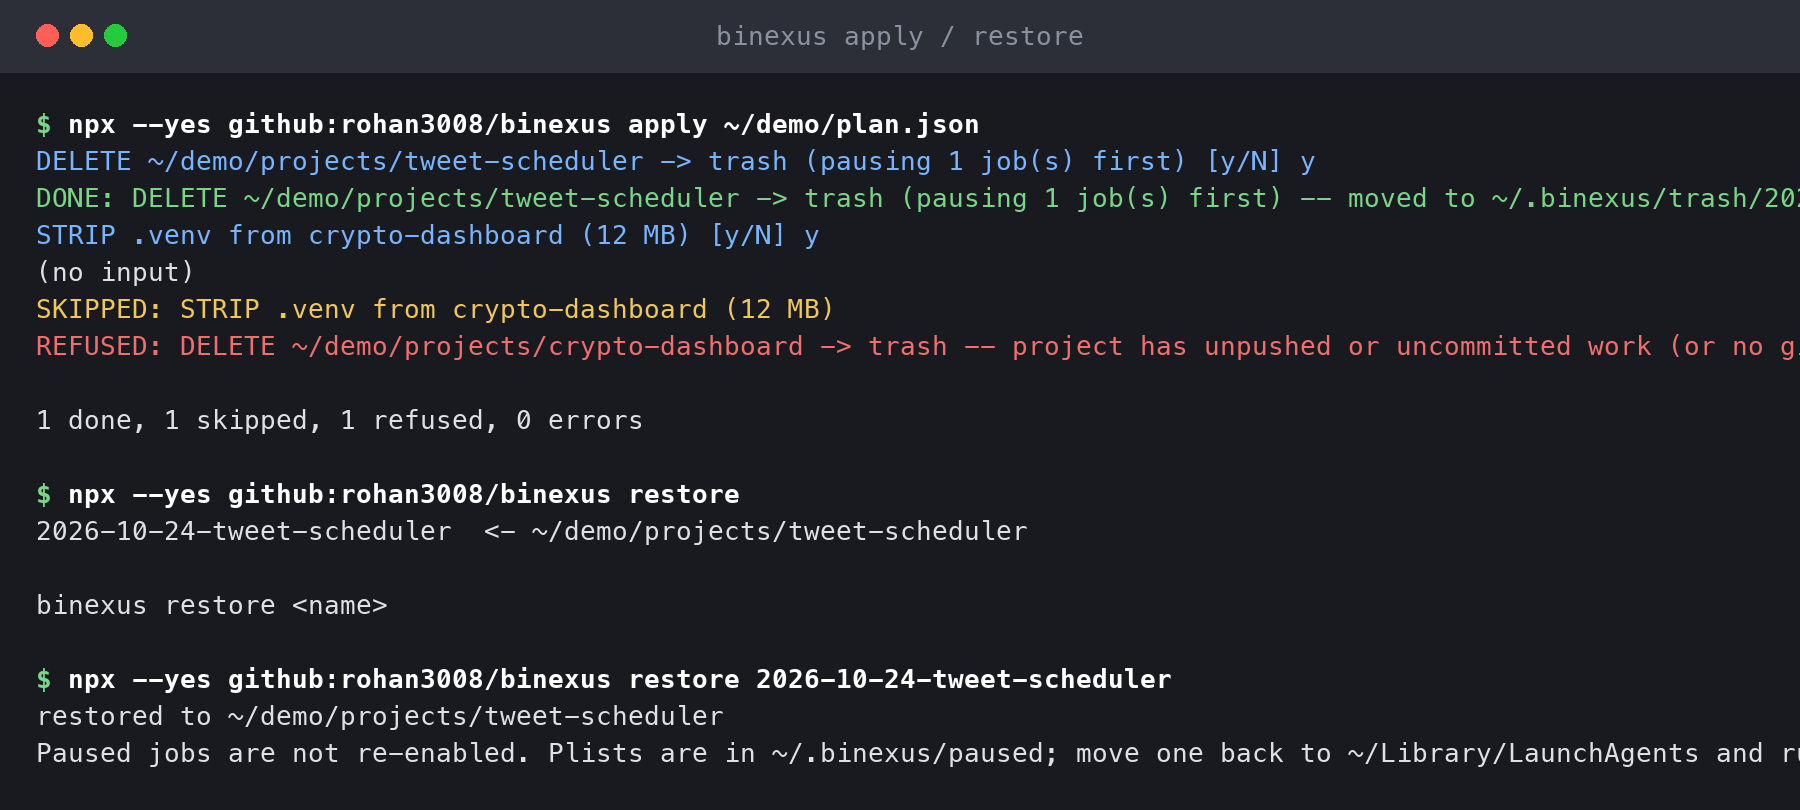
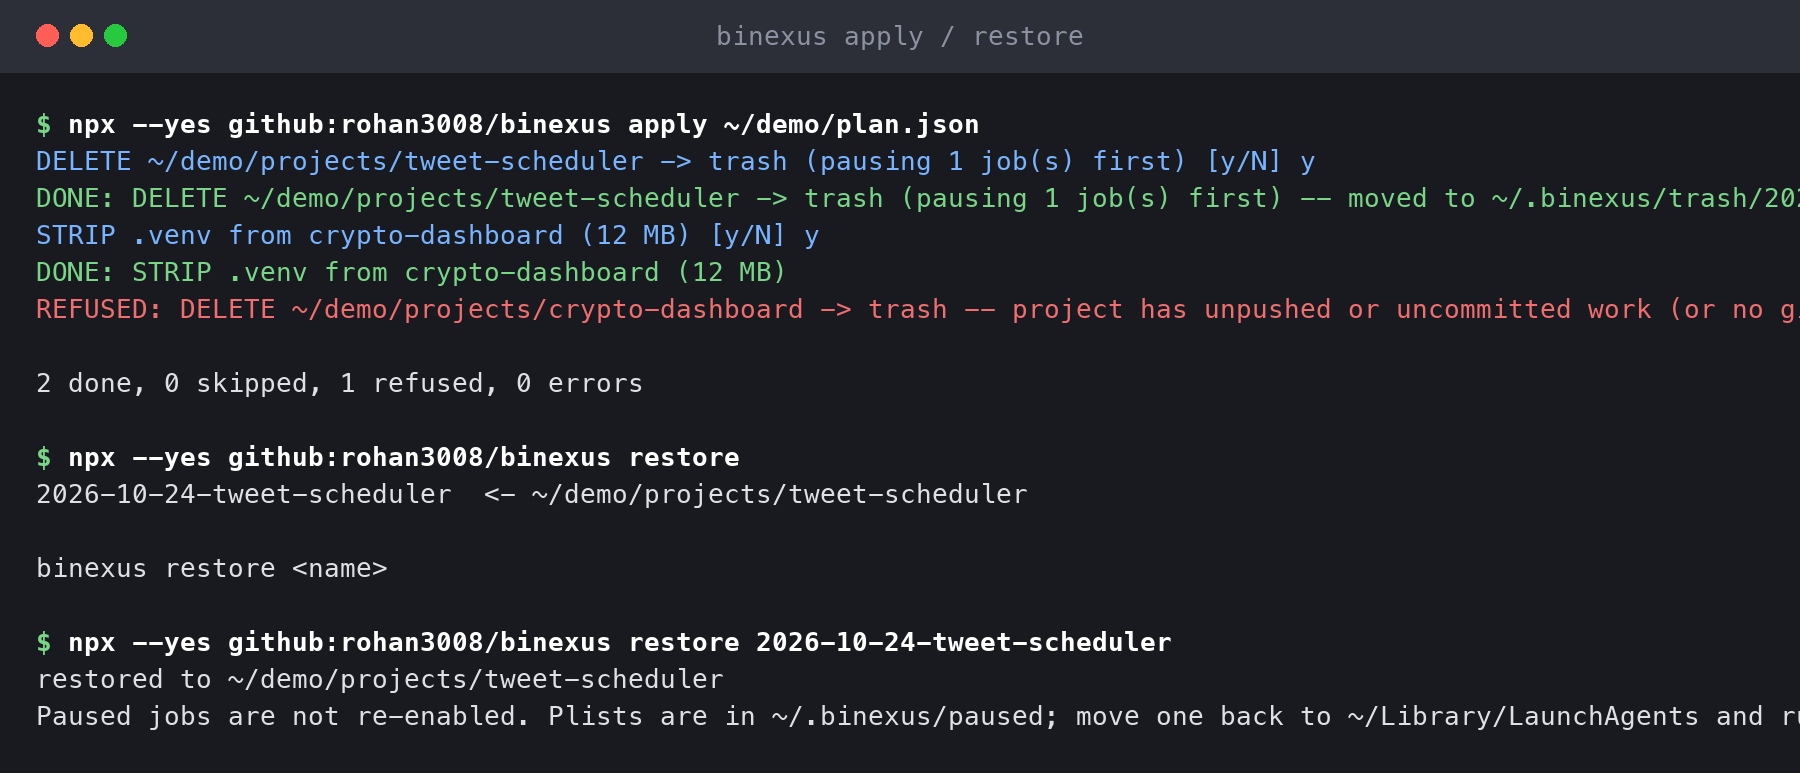
docs: screenshots of scan, agent conversation, plan, apply and restore

diff --git a/README.md b/README.md
@@ -26,6 +26,30 @@ Background jobs still running for idle/stale projects:
 That is a real scan of the author's laptop. Two daemons had been waking up
 every day for projects untouched since the summer.
 
+## How it looks
+
+**1. Scan.** Read-only. The summary leads with the jobs, because those are
+the quiet cost.
+
+![binexus scan](docs/screenshots/1-scan.png)
+
+**2. Your agent asks you, one project at a time.** Worst offenders first,
+with the signals and a recommendation. You answer keep, pause, strip, or
+delete. Protected projects say why.
+
+![agent conversation](docs/screenshots/2-agent.png)
+
+**3. It writes a plan and hands you the command.** Nothing has changed on
+disk yet.
+
+![plan written](docs/screenshots/3-plan.png)
+
+**4. Apply confirms every action again.** Default no. A protected project is
+refused outright unless you acknowledged it in the plan. Restore brings a
+deleted project back. (Demo folder; the launchd job in it is a fixture.)
+
+![apply and restore](docs/screenshots/4-apply.png)
+
 ## Install the skill (recommended)
 
 binexus is an [Agent Skill](https://agentskills.io). Your coding agent is
